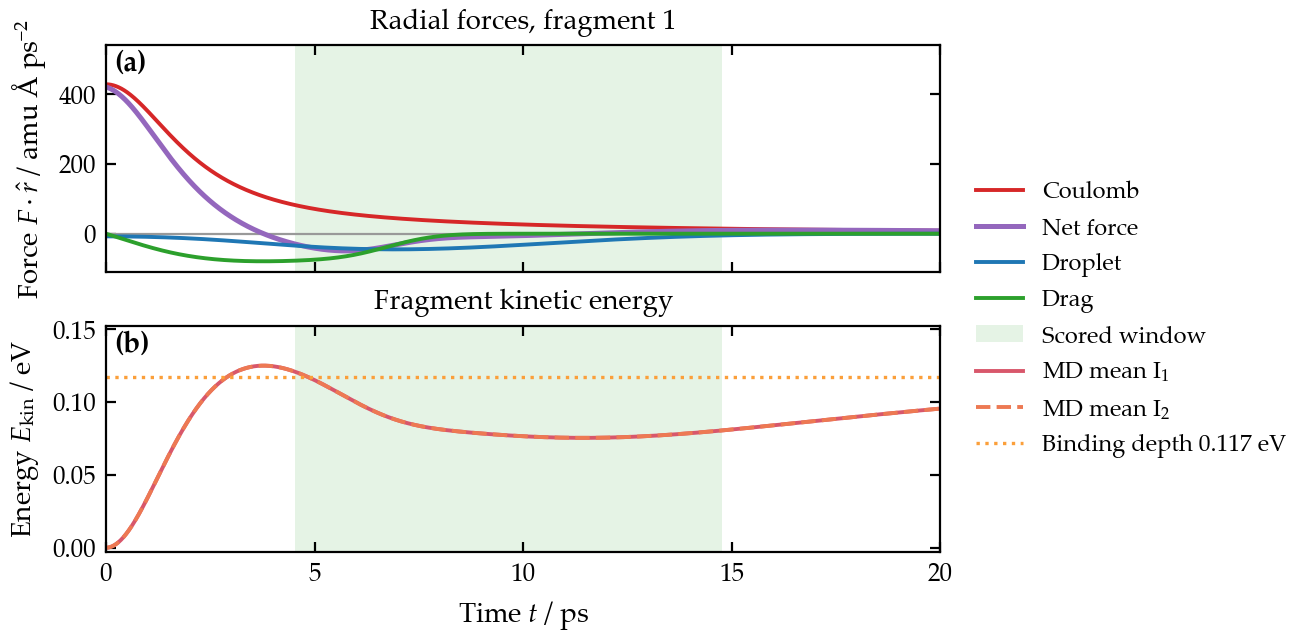
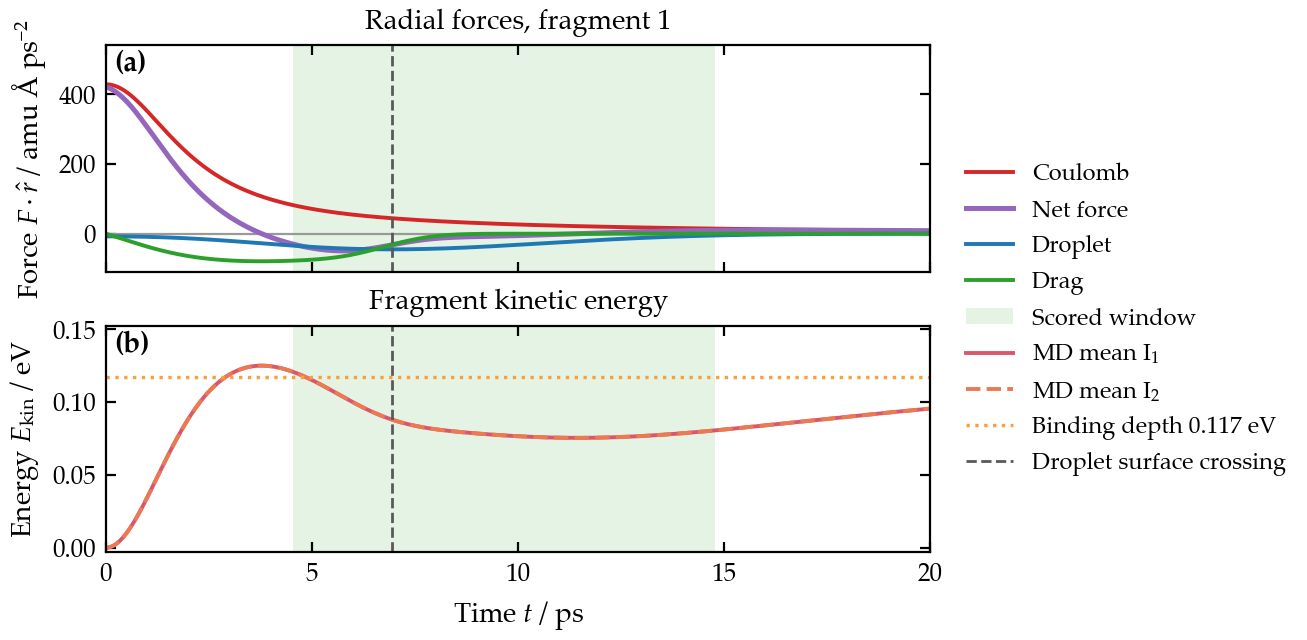
Minor thesi plot changes

diff --git a/i2_helium_md/scripts/post_processing/tier0_drag_comparison.py b/i2_helium_md/scripts/post_processing/tier0_drag_comparison.py
@@ -601,8 +601,30 @@ def _reconstruct_radial_forces(ion, cfg, *, atom_index):
     return drag_r, coul_r, drop_r
 
 
+def surface_crossing_time_ps(ion, *, atom_index: int) -> float | None:
+    """Median time [ps] at which the fragment of ``atom_index`` reaches the droplet surface.
+
+    The fragment is the atom block of ``atom_index`` in the 2N layout (first N
+    atoms = fragment 1, last N = fragment 2). Each ion's crossing is the first
+    stored step with depth ``r - R_drop >= 0`` [Å]; an ion that never crosses
+    counts as +inf. Returns None if the median is +inf, i.e. at least half of
+    the ions stay inside the droplet (the recaptured "stuck" runs).
+    """
+    n = int(ion.num_molecules)
+    if not 0 <= atom_index < 2 * n:
+        raise ValueError(f"atom_index must lie in [0, {2 * n}), got {atom_index}")
+    block = slice(0, n) if atom_index < n else slice(n, 2 * n)
+    r = np.sqrt(ion.positions_x[block] ** 2 + ion.positions_y[block] ** 2
+                + ion.positions_z[block] ** 2)                     # (N, T) [Å]
+    outside = r - np.asarray(ion.droplet_radii_angstrom)[block, None] >= 0.0
+    time = np.asarray(ion.time_ps, dtype=float)
+    t_first = np.where(outside.any(axis=1), time[np.argmax(outside, axis=1)], np.inf)
+    t_median = float(np.median(t_first))
+    return None if np.isinf(t_median) else t_median
+
+
 def build_force_figure(ion, cfg, window, hedft, *, atom_index=1, t_max=T_MAX,
-                       letters=("c", "d"), alone=False):
+                       letters=("c", "d"), alone=False, mark_surface=False):
     """Plot the radial-projected force evolution for the clean atom (atom 2).
 
     Complements :func:`tier0_drag_comparison.build_figure`: it shows *how the
@@ -615,6 +637,9 @@ def build_force_figure(ion, cfg, window, hedft, *, atom_index=1, t_max=T_MAX,
     extraction atom the drag law was fit to. ``t_max`` is the x-axis limit [ps]
     (None: auto), ``letters`` the panel letters. ``alone`` is for a figure not
     in a side-by-side pair: full text width, legend to the right of the panels.
+    ``mark_surface`` draws the fragment's droplet surface crossing
+    (:func:`surface_crossing_time_ps`) in both panels when it falls inside the
+    plotted range.
 
     Returns a 2x1 subplot figure with individual forces on top and net force on
     the bottom.
@@ -676,6 +701,14 @@ def build_force_figure(ion, cfg, window, hedft, *, atom_index=1, t_max=T_MAX,
     if alone:                                    # the wider axes tick too finely in t
         ax_top.xaxis.set_major_locator(MultipleLocator(5.0))
         ax_bottom.yaxis.set_major_locator(MultipleLocator(0.05))
+    # Droplet surface crossing of the plotted fragment: E_b above is the asymptotic
+    # well depth, and the droplet force peaks here (erf potential), not at E_kin = E_b.
+    # Drawn after the axis limits, which would otherwise stretch to the line's 0..1 span.
+    t_surface = surface_crossing_time_ps(ion, atom_index=atom_index) if mark_surface else None
+    if t_surface is not None and (t_max is None or t_surface <= t_max):
+        ax_top.axvline(t_surface, color="0.35", ls="--", lw=1.0)
+        ax_bottom.axvline(t_surface, color="0.35", ls="--", lw=1.0,
+                          label="Droplet surface crossing")   # bottom: last legend entry
     _calibration_legend(fig, (ax_top, ax_bottom), right=alone)
 
 

diff --git a/i2_helium_md/scripts/post_processing/tier0_calibration_figures.py b/i2_helium_md/scripts/post_processing/tier0_calibration_figures.py
@@ -6,7 +6,8 @@ Three LQ (B2) runs at m = I+ + 21 He, each drawn with the builders of
 * ``18A_Stuck_Velocity_R.png``, ``18A_Stuck_Force_Energy.png`` -- 18 A at the
   TDDFT binding 0.308 eV: the ion is recaptured on the longer 50 ps timescale.
 * ``18A_B2.png``, ``18A_B2_Force_Energy.png`` -- 18 A at the B2 binding.
-* ``9A_B2.png`` -- 9 A at the B2 binding.
+* ``9A_B2.png`` -- 9 A at the B2 binding; panels (c), (d), since it sits next
+  to ``18A_B2.png`` (a), (b) in the thesis.
 
 A run is reused when its ``cfg.json`` matches and regenerated otherwise (N = 50,
 about a minute each). The PNGs are half the text width, in thesis style, and go
@@ -47,14 +48,17 @@ class Run(NamedTuple):
     force_png: Optional[str]    # force + energy figure, or None
     e_bind_eV: Optional[float] = None   # binding [eV]; None = the LQ bundle's
     force_alone: bool = False   # force figure not in a pair: full width, side legend
+    velocity_letters: tuple[str, str] = ("a", "b")   # panel letters of the velocity figure
+    mark_surface: bool = False  # force figure: dashed line at the droplet surface crossing
 
 
 RUNS = (
     Run("18A", "B2m21stuck", 50.0, 50.0, "18A_Stuck_Velocity_R.png",
         "18A_Stuck_Force_Energy.png", e_bind_eV=0.308),
     Run("18A", "B2m21", 30.0, 20.0, "18A_B2.png", "18A_B2_Force_Energy.png",
-        force_alone=True),
-    Run("9A", "B2m21", 30.0, 20.0, "9A_B2.png", None),
+        force_alone=True, mark_surface=True),
+    # 9A_B2.png sits next to 18A_B2.png (a, b) in the thesis, so it continues with (c, d).
+    Run("9A", "B2m21", 30.0, 20.0, "9A_B2.png", None, velocity_letters=("c", "d")),
 )
 
 # =============================================================================
@@ -111,11 +115,11 @@ def draw(run: Run, directory: RunDirectory, out_dir: Path) -> None:
     with plt.rc_context(FIG_RC):              # thesis_style font (Palatino)
         figures = {run.velocity_png: build_figure(
             ion, hedft, window, False, float(ion.droplet_radii_angstrom[0]),
-            case=run.case, t_max=run.t_max_ps)}
+            case=run.case, t_max=run.t_max_ps, letters=run.velocity_letters)}
         if run.force_png is not None:
             figures[run.force_png] = build_force_figure(
                 ion, cfg, window, hedft, atom_index=FORCE_ATOM_INDEX, t_max=run.t_max_ps,
-                alone=run.force_alone, letters=("a", "b") if run.force_alone else ("c", "d"))
+                alone=run.force_alone, mark_surface=run.mark_surface, letters=("a", "b") if run.force_alone else ("c", "d"))
         for name, fig in figures.items():
             fig.savefig(out_dir / name, dpi=DPI)
             plt.close(fig)

diff --git a/i2_helium_md/tests/test_tier0_calibration_figures.py b/i2_helium_md/tests/test_tier0_calibration_figures.py
@@ -3,6 +3,7 @@
 from __future__ import annotations
 
 import struct
+from types import SimpleNamespace
 
 import matplotlib
 
@@ -23,7 +24,9 @@ from scripts.post_processing.tier0_drag_comparison import (  # noqa: E402
     CAL_Y_MARGINS,
     CAL_ZERO_PAD,
     _finish_calibration_axis,
+    surface_crossing_time_ps,
 )
+import numpy as np  # noqa: E402
 from scripts.tier0_common import run_dir_name  # noqa: E402
 
 
@@ -87,3 +90,32 @@ def test_run_configs(run):
     assert (cfg.num_molecules, cfg.seed) == (50, 20260604)
     assert cfg.ion_simulation_time == run.ion_time_ps
     assert cfg.binding_energy_I_ion_eV == (run.e_bind_eV or 0.11727328616561973)
+
+
+def _radial_ion(r_frag1, r_frag2, radius=10.0):
+    """Synthetic 2N checkpoint stand-in: atoms on the +x axis at radii r [Å], t = 0, 1, ... ps."""
+    r = np.vstack([r_frag1, r_frag2]).astype(float)
+    return SimpleNamespace(num_molecules=len(r_frag1), time_ps=np.arange(r.shape[1], dtype=float),
+                           positions_x=r, positions_y=np.zeros_like(r),
+                           positions_z=np.zeros_like(r),
+                           droplet_radii_angstrom=np.full(r.shape[0], radius))
+
+
+def test_surface_crossing_is_the_median_first_step_at_or_past_the_surface():
+    # fragment 1 crosses R_drop = 10 at t = 1, 2, 3 ps -> median 2; fragment 2 at 3 ps
+    frag1 = [[5, 10, 12, 13], [5, 8, 11, 13], [5, 6, 9, 10]]
+    frag2 = [[5, 6, 7, 10]] * 3
+    ion = _radial_ion(frag1, frag2)
+    assert surface_crossing_time_ps(ion, atom_index=0) == 2.0
+    assert surface_crossing_time_ps(ion, atom_index=4) == 3.0
+
+
+def test_surface_crossing_is_none_when_most_ions_stay_inside():
+    frag1 = [[5, 12, 13], [5, 6, 7], [5, 6, 7]]   # one of three escapes: median = inf
+    assert surface_crossing_time_ps(_radial_ion(frag1, frag1), atom_index=0) is None
+    with pytest.raises(ValueError):
+        surface_crossing_time_ps(_radial_ion(frag1, frag1), atom_index=6)
+
+
+def test_only_the_18A_B2_force_figure_marks_the_surface_crossing():
+    assert [r.force_png for r in RUNS if r.mark_surface] == ["18A_B2_Force_Energy.png"]
